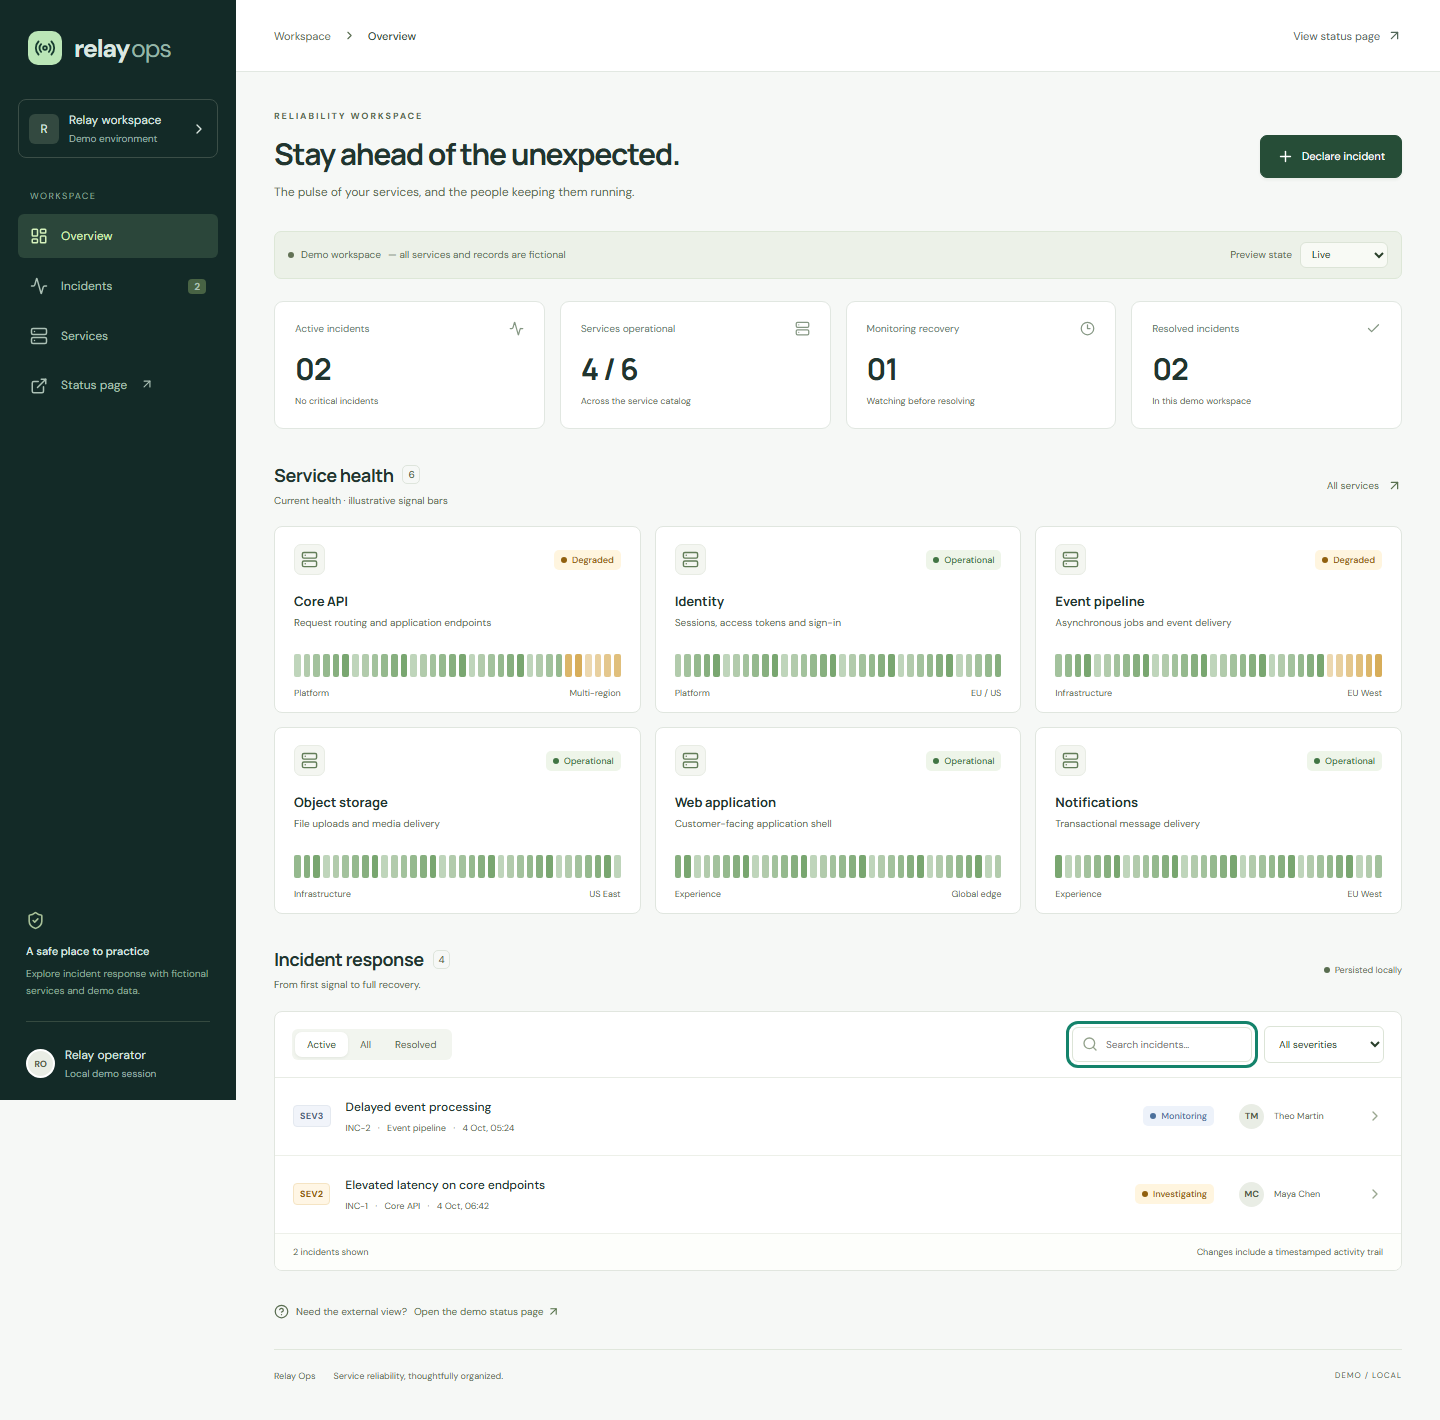
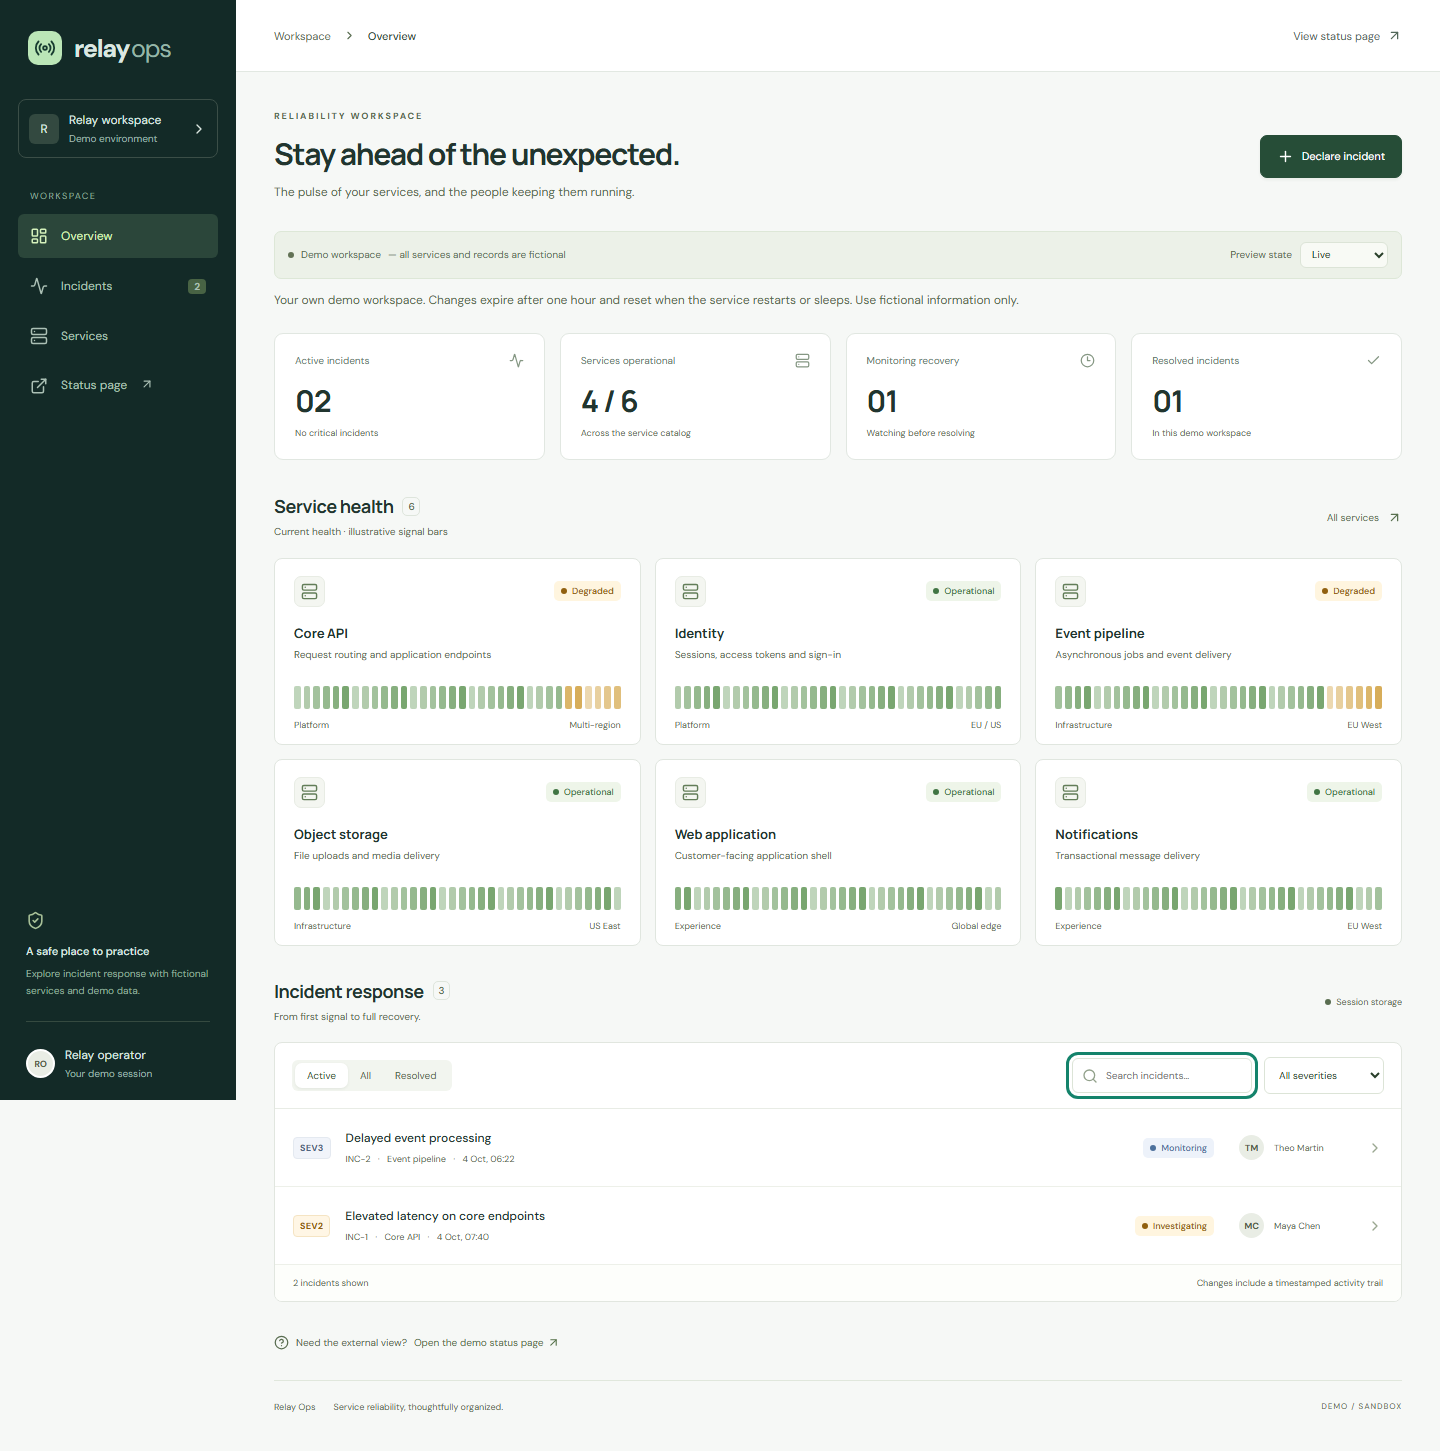
Prepare Render Free runtime and verify isolated browser sessions

diff --git a/tests/e2e/public-demo.spec.ts b/tests/e2e/public-demo.spec.ts
@@ -1,0 +1,59 @@
+import { test, expect } from "@playwright/test";
+
+test("hosted demo isolates browsers while preserving each visitor workflow", async ({
+  page,
+  browser,
+  baseURL,
+}) => {
+  const response = await page.goto("/");
+  expect(response?.headers()["content-security-policy"]).toContain(
+    "frame-ancestors 'none'",
+  );
+  await expect(
+    page.getByText("Your own demo workspace.", { exact: false }),
+  ).toBeVisible();
+  await page.getByRole("button", { name: "Declare incident" }).click();
+  const dialog = page.getByRole("dialog");
+  await dialog
+    .getByLabel("Incident title")
+    .fill("A private visitor demo draft");
+  await dialog.getByLabel("Affected service").selectOption("storage");
+  await dialog
+    .getByLabel("Initial update")
+    .fill("Only this browser should receive the operator details.");
+  await dialog.getByRole("button", { name: "Create incident" }).click();
+  await expect(dialog).not.toBeVisible();
+  await page.reload();
+  await expect(
+    page
+      .getByRole("button")
+      .filter({ hasText: "A private visitor demo draft" }),
+  ).toBeVisible();
+  const other = await browser.newContext({ baseURL });
+  try {
+    const otherPage = await other.newPage();
+    await otherPage.goto("/");
+    await expect(
+      otherPage.getByRole("heading", { name: "Service health" }),
+    ).toBeVisible();
+    await expect(
+      otherPage.getByText("A private visitor demo draft"),
+    ).toHaveCount(0);
+    await otherPage.goto("/status");
+    await expect(
+      otherPage.getByRole("heading", { name: "Incident updates" }),
+    ).toBeVisible();
+    await expect(
+      otherPage.getByRole("heading", { name: "Object storage incident" }),
+    ).toHaveCount(0);
+    await page.goto("/status");
+    await expect(
+      page.getByRole("heading", { name: "Object storage incident" }),
+    ).toBeVisible();
+    await expect(
+      page.getByText("Only this browser should receive the operator details."),
+    ).toHaveCount(0);
+  } finally {
+    await other.close();
+  }
+});

diff --git a/playwright.config.ts b/playwright.config.ts
@@ -4,11 +4,34 @@ export default defineConfig({
   fullyParallel: false,
   workers: 1,
   use: { baseURL: "http://127.0.0.1:3100", trace: "retain-on-failure" },
-  webServer: {
-    command: "node --import tsx server/index.ts --production",
-    url: "http://127.0.0.1:3100",
-    env: { PORT: "3100", DATABASE_PATH: `data/e2e-${process.pid}.sqlite` },
-    reuseExistingServer: false,
-  },
-  projects: [{ name: "chromium", use: { browserName: "chromium" } }],
+  webServer: [
+    {
+      command: "node --import tsx server/index.ts --production",
+      url: "http://127.0.0.1:3100",
+      env: { PORT: "3100", DATABASE_PATH: `data/e2e-${process.pid}.sqlite` },
+      reuseExistingServer: false,
+    },
+    {
+      command: "node --import tsx server/index.ts --production",
+      url: "http://127.0.0.1:3200/healthz",
+      env: {
+        PORT: "3200",
+        HOST: "0.0.0.0",
+        DEMO_MODE: "public",
+        PUBLIC_ORIGIN: "http://127.0.0.1:3200",
+      },
+      reuseExistingServer: false,
+    },
+  ],
+  projects: [
+    {
+      name: "chromium",
+      testIgnore: "**/public-demo.spec.ts",
+      use: { browserName: "chromium" },
+    },
+    {
+      name: "public-demo",
+      use: { browserName: "chromium", baseURL: "http://127.0.0.1:3200" },
+    },
+  ],
 });

diff --git a/src/main.tsx b/src/main.tsx
@@ -159,6 +159,10 @@ function PublicStatusPage() {
             )}
           </>
         )}
+        <p className="session-note">
+          Hosted demo sessions are browser-specific and expire after one hour or
+          a service restart. Use fictional information only.
+        </p>
         <footer>
           Demo environment · Fictional services and incidents. No live
           monitoring.

diff --git a/README.md b/README.md
@@ -20,14 +20,51 @@ npm run build
 npm start
 ```
 
-`PORT` changes the port. `DATABASE_PATH` selects another SQLite file. To start a fresh demo, stop the server and choose a new database path. Back up with SQLite backup tools; do not copy only the main database while WAL writes are active.
+`PORT` changes the port. `DATABASE_PATH` selects another SQLite file in local mode. To start a fresh local demo, stop the server and choose a new database path. Back up with SQLite backup tools; do not copy only the main database while WAL writes are active. The default host is `127.0.0.1`; external binding is refused unless `DEMO_MODE=public` is enabled.
+
+## Hosted demo on Render Free
+
+The repository includes `render.yaml` for one **free Node web service**, with no database service or paid disk. It serves the actual React bundle and Express/SQLite backend. Import the repository as a Render Blueprint, or use these settings for a Web Service:
+
+| Setting        | Value                                   |
+| -------------- | --------------------------------------- |
+| Runtime / plan | Node / Free                             |
+| Branch         | `main`                                  |
+| Build          | `npm ci --include=dev && npm run build` |
+| Start          | `npm start`                             |
+| Health check   | `/healthz`                              |
+| `NODE_VERSION` | `24.19.0`                               |
+| `NODE_ENV`     | `production`                            |
+| `HOST`         | `0.0.0.0`                               |
+| `DEMO_MODE`    | `public`                                |
+
+Render provides `PORT` and `RENDER_EXTERNAL_URL`. The latter is the exact allowed browser origin for writes. For another host or a custom domain, set `PUBLIC_ORIGIN` to the exact HTTPS origin, without a trailing slash. Requests from an alternate hostname cannot write unless it is the configured origin. No credential or application secret is required. Auto-deploys are configured to wait for passing checks; actual service creation is separate from this repository configuration.
+
+**Hosted data is temporary.** Every visitor receives an independent SQLite sandbox through an opaque, host-only HttpOnly cookie (Secure on HTTPS, SameSite=Lax). It lasts at most one hour, preserving changes across page refreshes in that browser. Restart, redeploy or free-instance sleep resets all sandboxes. The status page shows the current browser's sandbox, not a global feed. There is no account or sign-in, and these anonymous sandboxes must not contain real personal or operational information.
+
+[Render Free services sleep after idle time and lose local files on restart, redeploy or spin-down](https://render.com/docs/free). Cold starts can take about a minute. Use the Free plan only; this configuration does not attach paid storage or create a paid database. Render usage limits and billing settings remain provider-controlled: review the account's spending settings before deployment, and do not assume unlimited traffic or uptime.
+
+The demo enforces 50 simultaneous sandboxes, 30 new sandboxes per minute and 300 API requests per minute across the process. Each sandbox permits 120 reads and 20 writes per minute, 20 total incidents (including fixtures) and 25 timeline events per incident. Limit responses use HTTP 429/503 with retry guidance, or 409 for record caps. Expired-cookie writes return 409 and require refreshing into a fresh sandbox. Idle expiry removes the SQLite files. These are bounded, single-process demo controls, not a distributed abuse-prevention system; heavy traffic can temporarily exhaust demo capacity.
+
+Mutation requests require the exact configured Origin, JSON content type and a valid session cookie. Cross-site Fetch Metadata is rejected, request bodies are capped at 16 KiB, and production pages include a restrictive content security policy. No proxy IP or forwarded Host header is trusted for session identity or Origin checks. A cookie is a temporary sandbox capability, not a verified user identity.
+
+Local public-mode rehearsal (PowerShell):
+
+```powershell
+$env:DEMO_MODE='public'
+$env:PUBLIC_ORIGIN='http://127.0.0.1:3000'
+npm run build
+npm start
+```
+
+To return to durable local mode, clear `DEMO_MODE` and `PUBLIC_ORIGIN` before restarting. `/healthz` does not create a session and remains available when demo capacity is full. It reports process readiness, not external monitoring or an uptime guarantee.
 
 ## Explore
 
 - **Overview:** derived service health, response counts, incident filters and search.
 - **Incidents:** declare an incident, select severity and service, assign a lead, change status and append a required response note. Resolved incidents can be reopened.
 - **Services:** related service records with teams and regions. Signal bars are illustrative, not measured telemetry.
-- **Status page:** read-only health and fixed public incident summaries. A local route, not a deployed public site. Internal titles, descriptions, notes and operator identities are never returned by its API.
+- **Status page:** read-only health and fixed public incident summaries for the current workspace. Internal titles, descriptions, notes and operator identities are never returned by its API.
 - **Preview state:** loading, empty and error presentations without changing stored data.
 
 Try declaring a SEV1 incident for Object storage, assigning Theo Martin, and resolving it with a recovery note. Reload and check the timeline and status page.
@@ -45,6 +82,8 @@ SQLite (services → incidents → events)
 `src/domain.ts` shares schemas, types and the health rule. `server/store.ts` owns persistence; SQL uses bound parameters and foreign keys. Mutations and timeline events commit atomically. Each update supplies the observed version: a stale writer gets HTTP 409. Refresh and reopen the incident before retrying a conflict.
 
 `server/app.ts` maps validation and domain failures to JSON. The Node server runs Vite middleware in development and serves the production bundle after building. The client-rendered application needs no separate API process or CORS configuration.
+
+`server/demo.ts` selects a per-visitor store in hosted mode, with random capability cookies, request budgets, expiry and cleanup. Local mode retains one durable database and must remain loopback-only. Public mode never opens that local database.
 
 | Endpoint                   | Purpose                                                        |
 | -------------------------- | -------------------------------------------------------------- |
@@ -64,7 +103,7 @@ npx playwright install chromium
 npm run test:e2e
 ```
 
-Integration tests use isolated SQLite databases and cover persistence after reopening, atomic timelines, invalid payloads/references, malformed JSON, missing records and competing writers. Browser tests run against the production build, exercise creation through resolution and reload, cover empty/error/loading states, scan accessibility with axe, and inspect desktop, tablet and mobile layouts. E2E uses a fresh `data/e2e-<process-id>.sqlite` per run; screenshots are saved to `docs/screenshots`.
+Integration tests use isolated SQLite databases and cover persistence after reopening, atomic timelines, invalid payloads/references, malformed JSON, missing records and competing writers. Hosted-mode contracts additionally cover visitor separation, exact public fields, secure cookie attributes, expiry, CSRF checks, rate limits and storage caps. Browser tests run against production builds in both local and hosted-demo modes, exercise creation through resolution and reload, preserve drafts after delayed responses, cover empty/error/loading states, scan accessibility with axe, and inspect desktop, tablet and mobile layouts. Local E2E uses a fresh `data/e2e-<process-id>.sqlite`; hosted E2E uses temporary visitor databases. Screenshots are saved to `docs/screenshots`.
 
 GitHub Actions runs the same checks. Automated accessibility checks complement manual keyboard and screen-reader review.
 
@@ -72,9 +111,9 @@ GitHub Actions runs the same checks. Automated accessibility checks complement m
 
 All services, people and incidents are fictional. Metrics count those records; no real customers, measured uptime or production reliability are claimed. Seed timestamps are relative to first database creation.
 
-This is a **local single-workspace demo**, bound to loopback. There is no authentication, authorization, audit identity, ingestion, alert delivery, rate limiting, pagination or retention job. The status page requests only `/api/public/status`: an explicit allowlist of service ID/name/health and incident ID/service ID/status/update time plus fixed, server-composed titles and summaries. All demo services and incident statuses are intended for this view; operator-authored titles, descriptions and timeline notes, assignments, versions, team and region details are excluded. This projection is not an authorization boundary: the internal API remains accessible locally. Do not enter confidential information. Creation has no replay key, so retrying after a lost response may create a duplicate. Refresh retrieves current data; there is no automatic polling. SQLite synchronous access suits this small dataset, not high-volume telemetry.
+There is no personal authentication, verified audit identity, monitoring ingestion or alert delivery. Local mode is a single workspace bound to loopback; hosted mode isolates temporary visitor workspaces as described above. The status page requests only `/api/public/status`: an explicit allowlist of service ID/name/health and incident ID/service ID/status/update time plus fixed, server-composed titles and summaries. Operator-authored titles, descriptions and notes, assignments, versions, team and region details are excluded. Within their own sandbox, visitors can use all operator APIs. Do not enter confidential information. Creation has no replay key, so retrying after a lost response may create a duplicate. Refresh retrieves current data; there is no automatic polling. SQLite synchronous access suits this small dataset, not high-volume telemetry.
 
-Before internet deployment, add authenticated operators, access controls for internal endpoints, explicit publication controls, request limits, backups, migrations, observability and hosting-appropriate persistent storage. Public hosting is intentionally not configured.
+Before using this for real operational work, add authenticated operators, role-based permissions, publication controls, backups, migrations, observability and durable hosting-appropriate storage. The hosted sandbox is a portfolio demo, not an incident-management service for real teams.
 
 ## References
 
